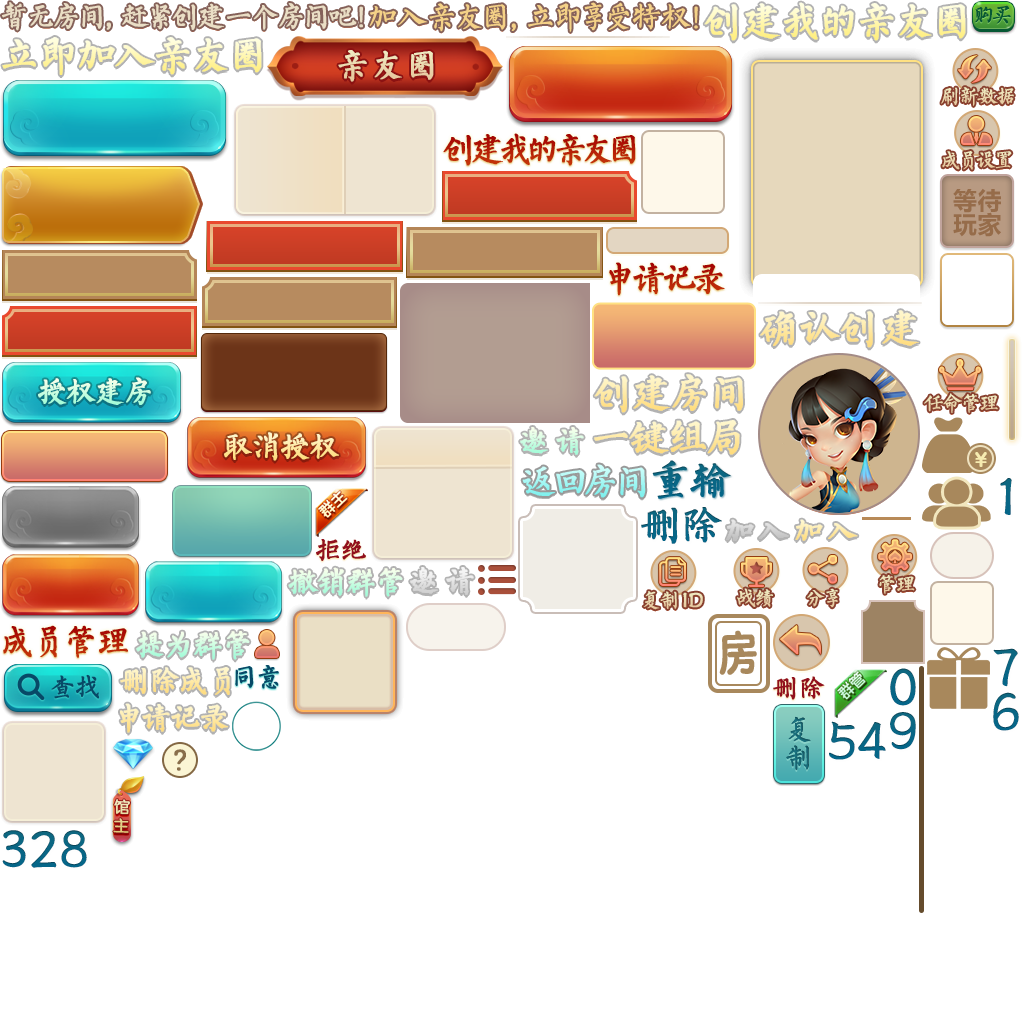
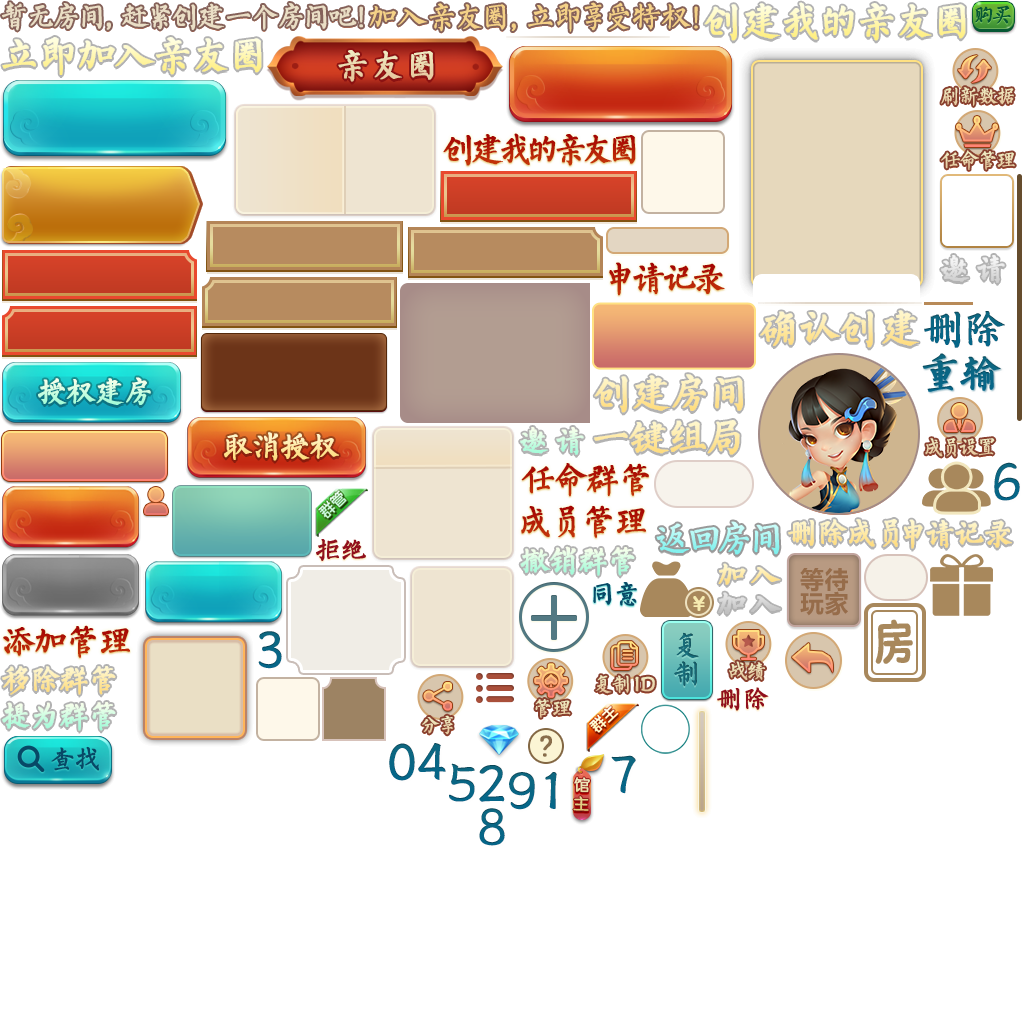
任命管理

diff --git a/assets/Script/modules/lobby/views/club/AppointManager/AppointManagerView.ts b/assets/Script/modules/lobby/views/club/AppointManager/AppointManagerView.ts
@@ -1,0 +1,167 @@
+import { CommonFunction, DataStore, HTTP, LEnv, Logger } from "../../../lcore/LCoreExports";
+import { proto } from "../../../proto/protoLobby";
+
+const { ccclass } = cc._decorator;
+
+/**
+ * 任命管理
+ */
+@ccclass
+export class AppointManagerView extends cc.Component {
+
+    private view: fgui.GComponent;
+    private win: fgui.Window;
+    private eventTarget: cc.EventTarget;
+
+    private clubInfo: proto.club.IMsgClubInfo;
+
+    private managers: proto.club.IMsgClubMemberInfo[];
+
+    // private members: proto.club.IMsgClubMemberInfo[];
+
+    // private membersWithoutManager: proto.club.IMsgClubMemberInfo[];
+
+    private managerList: fgui.GList;
+    private memberList: fgui.GList;
+
+    public show(clubInfo: proto.club.IMsgClubInfo): void {
+        this.clubInfo = clubInfo;
+        this.win.show();
+        this.loadClubMgrs();
+    }
+
+    protected onLoad(): void {
+        //
+        this.eventTarget = new cc.EventTarget();
+
+        const view = fgui.UIPackage.createObject("lobby_club", "appointManager").asCom;
+        this.view = view;
+
+        const win = new fgui.Window();
+        win.contentPane = view;
+        win.modal = true;
+
+        this.win = win;
+
+        this.initView();
+    }
+
+    protected onDestroy(): void {
+
+        this.eventTarget.emit("destroy");
+        this.win.hide();
+        this.win.dispose();
+    }
+
+    private onCloseClick(): void {
+        this.destroy();
+    }
+
+    private initView(): void {
+        //
+
+        const closeBtn = this.view.getChild("closeBtn");
+        closeBtn.onClick(this.onCloseClick, this);
+
+        this.managerList = this.view.getChild("managerList").asList;
+        this.memberList = this.view.getChild("memberList").asList;
+
+        this.managerList.itemRenderer = (index: number, item: fgui.GObject) => {
+            this.renderManagerListItem(index, item);
+        };
+
+        this.memberList.itemRenderer = (index: number, item: fgui.GObject) => {
+            this.renderMemberListItem(index, item);
+        };
+        this.memberList.setVirtual();
+
+    }
+
+    private renderMemberListItem(index: number, item: fgui.GObject): void {
+        //
+    }
+
+    private onRemoveBtnClick(ev: fgui.Event): void {
+        const manager = <proto.club.IMsgClubMemberInfo>ev.initiator.data;
+        Logger.debug("manager = ", manager);
+        //
+    }
+
+    private loadClubMgrs(): void {
+        //
+        const tk = DataStore.getString("token", "");
+        const loadRecordUrl = `${LEnv.rootURL}${LEnv.loadClubMgrs}?&tk=${tk}&clubID=${this.clubInfo.baseInfo.clubID}`;
+
+        const cb = (xhr: XMLHttpRequest, err: string) => {
+            //
+            const data = <Uint8Array>xhr.response;
+            const msgClubReply = proto.club.MsgClubReply.decode(data);
+            if (msgClubReply.replyCode === proto.club.ClubReplyCode.RCOperation) {
+                const reply = proto.club.MsgClubLoadMembersReply.decode(msgClubReply.content);
+
+                const members = reply.members;
+                this.updateManagerList(members);
+
+            }
+        };
+
+        this.clubRequest(loadRecordUrl, cb);
+
+    }
+
+    private updateManagerList(members: proto.club.IMsgClubMemberInfo[]): void {
+        this.managers = members;
+        this.managerList.numItems = 2;
+    }
+
+    private renderManagerListItem(index: number, item: fgui.GObject): void {
+        //
+
+        const managers = this.managers;
+        const manager = managers[index];
+
+        const controller = item.asCom.getController("item");
+
+        if (manager === null || manager === undefined) {
+            controller.selectedIndex = 1;
+        } else {
+            controller.selectedIndex = 0;
+
+            const nameText = item.asCom.getChild("name").asTextField;
+            const idText = item.asCom.getChild("id").asTextField;
+
+            nameText.text = manager.displayInfo.nick === "" ? `${manager.userID}` : manager.displayInfo.nick;
+            idText.text = `ID : ${manager.userID}`;
+
+            const loader = item.asCom.getChild("loader").asLoader;
+            CommonFunction.setHead(loader, manager.displayInfo.headIconURL);
+
+            const removeBtn = item.asCom.getChild("removeBtn").asButton;
+
+            removeBtn.offClick(this.onRemoveBtnClick, this);
+            removeBtn.onClick(this.onRemoveBtnClick, this);
+            removeBtn.data = manager;
+
+        }
+    }
+
+    /**
+     * 网络请求
+     * @param url 链接
+     * @param msg 滚动圈弹的信息
+     * @param cb 回调
+     */
+    private clubRequest(url: string, cb: Function): void {
+        if (url === null) {
+            return null;
+        }
+
+        Logger.debug("clubRequest url = ", url);
+
+        HTTP.hGet(this.eventTarget, url, (xhr: XMLHttpRequest, err: string) => {
+
+            cb(xhr, err);
+        });
+    }
+
+}

diff --git a/assets/Script/modules/lobby/views/club/ClubView.ts b/assets/Script/modules/lobby/views/club/ClubView.ts
@@ -3,6 +3,7 @@ import { proto } from "../../proto/protoLobby";
 import { LobbyError } from "../LobbyError";
 import { NewRoomView } from "../NewRoomView";
 import { ApplyRecordView } from "./ApplyRecordView";
+import { AppointManagerView } from "./AppointManager/AppointManagerView";
 import { ClubRequestError } from "./ClubRequestError";
 import { CreateClubView } from "./CreateClubView";
 import { FilterGameView } from "./FilterGameView";
@@ -314,6 +315,10 @@ export class ClubView extends cc.Component {
 
     private onAppointManagerBtnClick(): void {
         //
+
+        const appointManagerView = this.addComponent(AppointManagerView);
+        appointManagerView.show(this.selectedClub);
+
     }
 
     private onBuyBtnClick(): void {

diff --git a/assets/Script/modules/lobby/lcore/LEnv.ts b/assets/Script/modules/lobby/lcore/LEnv.ts
@@ -44,6 +44,7 @@ export namespace LEnv {
     export const loadClubRooms = "/lobby/uuid/loadClubRooms";
 
     export const loadMyApplyEvent = "/lobby/uuid/loadMyApplyEvent";
+
     export const renameClub = "/lobby/uuid/renameClub";
 
     export const kickOut = "/lobby/uuid/kickOut";
